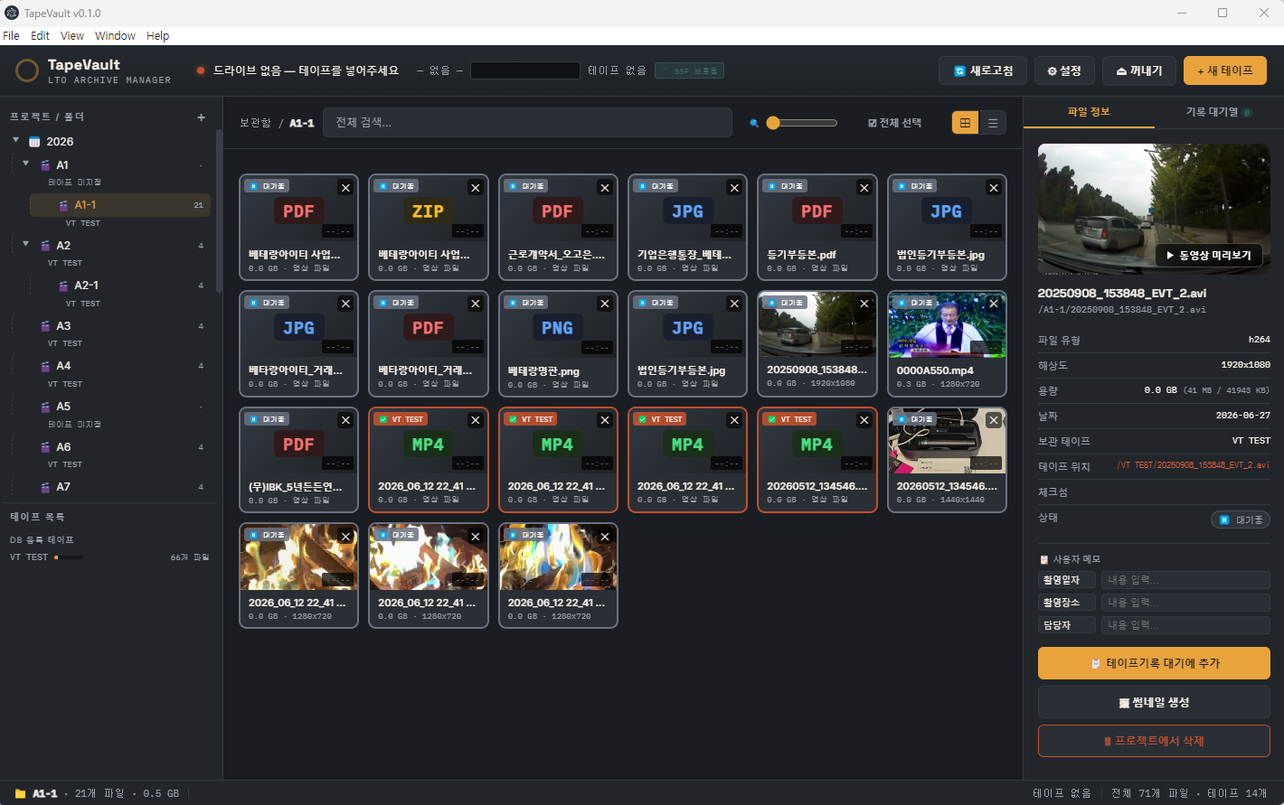
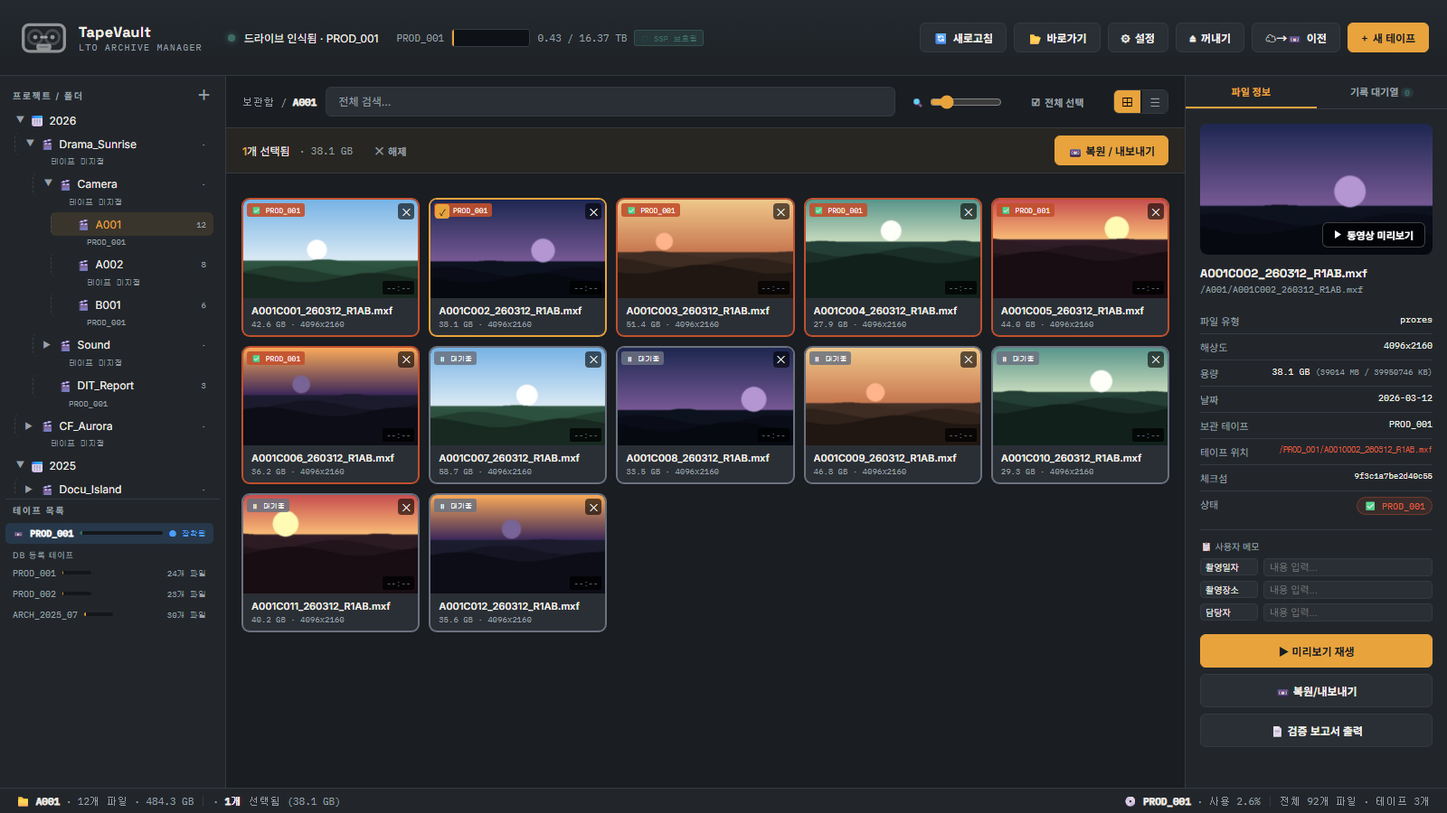
작동 방식: 실제 사용 순서 6단계로 다시 쓰고 그림을 예시 데이터 화면(1.2.9)으로 교체
- 테이프 준비 → 등록 → 기록·검증 → 찾기 → 복원 → 보고서·납품 (ko/en/ja)
- 대표 화면도 교체, 예전 화면 5장(실제 서류 이름·인물 포함) 삭제
- 지금 앱과 맞지 않던 설명(테이프에서 바로 재생, LTO 세대 선택, VT TEST 배지) 제거

diff --git a/index.html b/index.html
@@ -371,11 +371,11 @@ footer{padding:40px 48px;border-top:0.5px solid #313a54;background:#1d2027}
         <span style="width:10px;height:10px;border-radius:50%;background:#f87171;display:inline-block"></span>
         <span style="width:10px;height:10px;border-radius:50%;background:#f5a623;display:inline-block"></span>
         <span style="width:10px;height:10px;border-radius:50%;background:#4ade80;display:inline-block"></span>
-        <span style="font-size:12px;color:#d3d9e8;font-family:monospace;margin-left:8px">TapeVault v1.2.6 — LTO Archive Manager</span>
+        <span style="font-size:12px;color:#d3d9e8;font-family:monospace;margin-left:8px">TapeVault v1.2.9 — LTO Archive Manager</span>
       </div>
       <img src="img/screen-app.png" alt="TapeVault application screenshot" style="width:100%;display:block">
     </div>
-    <div style="font-size:12px;color:#c2cadc;text-align:center;margin-top:10px;font-family:monospace">▲ Actual TapeVault — no mockup</div>
+    <div style="font-size:12px;color:#c2cadc;text-align:center;margin-top:10px;font-family:monospace" data-i18n="hw_hero">▲ The real TapeVault interface (sample data)</div>
   </div>
 
   <div style="max-width:720px;margin:0 auto 20px" id="yt-wrap">
@@ -422,100 +422,119 @@ footer{padding:40px 48px;border-top:0.5px solid #313a54;background:#1d2027}
 
 <section class="gui-sec" id="gui">
   <div class="gui-head">
-    <div class="sec-label" data-i18n="gui_label">Real Software. Real UI.</div>
-    <div class="sec-title" data-i18n="gui_title">See exactly what you get</div>
-    <p class="sec-sub" style="margin:0 auto" data-i18n="gui_sub">These are actual screenshots from TapeVault — no mockups, no illustrations.</p>
+    <div class="sec-label" data-i18n="hw_label">How it works</div>
+    <div class="sec-title" data-i18n="hw_title">From shoot to shelf — and back</div>
+    <p class="sec-sub" style="margin:0 auto" data-i18n="hw_sub">Six steps cover the whole archive workflow. The screens below are the real TapeVault 1.2.9 interface, shown with sample project data.</p>
   </div>
   <div class="gui-step" style="margin-bottom:80px">
     <div class="gui-info">
       <div class="gui-step-num">STEP 01</div>
-      <div class="gui-step-title" data-i18n="s1_title">All your files,<br>visible at a glance</div>
-      <div class="gui-step-desc" data-i18n="s1_desc">Open any project folder and see every file as a thumbnail — videos, PDFs, images, ZIP files — all organized exactly as you archived them. Switch between grid view and list view instantly.</div>
+      <div class="gui-step-title" data-i18n="hw1_t">Prepare a tape<br>in a few clicks</div>
+      <div class="gui-step-desc" data-i18n="hw1_d">Insert a new tape and TapeVault offers to format it as LTFS. Give it a volume name and it is registered in your catalog. From then on the tape is recognized automatically whenever you insert it.</div>
       <ul class="gui-checklist">
-        <li data-i18n="s1_c1">Thumbnail grid view for visual browsing</li>
-        <li data-i18n="s1_c2">List view with filename, size, date, and status</li>
-        <li data-i18n="s1_c3">Color-coded tape status badges (archived / queued)</li>
-        <li data-i18n="s1_c4">Filter by file type, date, or tape</li>
+        <li data-i18n="hw1_c1">LTFS format — readable on Windows, macOS and Linux</li>
+        <li data-i18n="hw1_c2">LTO-5 to LTO-9 drives detected automatically</li>
+        <li data-i18n="hw1_c3">Tape name, capacity and free space shown in the top bar</li>
+        <li data-i18n="hw1_c4">Two drives? Each drive gets its own status row</li>
       </ul>
-      <div class="gui-tip" data-i18n="s1_tip">💡 Green badge = already on tape. Blue = waiting in queue. You always know the status of every file.</div>
+      <div class="gui-tip" data-i18n="hw1_tip">💡 The catalog remembers every tape, so you can browse its contents even when the tape is on the shelf.</div>
     </div>
     <div>
-      <div class="gui-screen"><img src="img/screen-grid.png" alt="TapeVault grid view"></div>
-      <div class="gui-screen-cap" data-i18n="s1_cap">▲ Grid view — actual TapeVault screenshot</div>
+      <div class="gui-screen"><a href="img/how-1-tape.png" target="_blank" rel="noopener"><img src="img/how-1-tape.png" alt="Prepare a tape in a few clicks" loading="lazy"></a></div>
+      <div class="gui-screen-cap" data-i18n="hw1_cap">▲ New tape registration</div>
     </div>
   </div>
   <div class="gui-step gui-step-rev" style="margin-bottom:80px">
     <div class="gui-info">
       <div class="gui-step-num">STEP 02</div>
-      <div class="gui-step-title" data-i18n="s2_title">Click any file.<br>See everything about it.</div>
-      <div class="gui-step-desc" data-i18n="s2_desc">Select any file and the right panel instantly shows the video thumbnail preview, file type, resolution, size, tape location, checksum, and your custom metadata notes. No waiting. No recalling.</div>
+      <div class="gui-step-title" data-i18n="hw2_t">Drag folders in.<br>Your structure is kept.</div>
+      <div class="gui-step-desc" data-i18n="hw2_d">Drop shoot folders from Explorer or Finder onto the tree. The whole subfolder structure is recreated, and that same structure is what gets written to tape. Thumbnails for video and images are generated automatically.</div>
       <ul class="gui-checklist">
-        <li data-i18n="s2_c1">Auto-generated video thumbnail preview</li>
-        <li data-i18n="s2_c2">Full file metadata: codec, resolution, date, size</li>
-        <li data-i18n="s2_c3">Exact tape path and tape name shown</li>
-        <li data-i18n="s2_c4">Custom notes: cameraman, location, owner</li>
+        <li data-i18n="hw2_c1">Drag and drop folders or files — subfolders included</li>
+        <li data-i18n="hw2_c2">Unlimited folder depth; rename, move or add any time</li>
+        <li data-i18n="hw2_c3">Hidden and zero-byte files are skipped automatically</li>
+        <li data-i18n="hw2_c4">Right-click menu for every folder action</li>
       </ul>
-      <div class="gui-tip" data-i18n="s2_tip">💡 Know exactly what's on the tape before you eject it and insert a new one. Zero guesswork.</div>
+      <div class="gui-tip" data-i18n="hw2_tip">💡 Organize by year, project and camera roll once — everyone on the team finds files the same way.</div>
     </div>
     <div>
-      <div class="gui-screen"><img src="img/screen-thumb.png" alt="TapeVault file detail panel"></div>
-      <div class="gui-screen-cap" data-i18n="s2_cap">▲ File detail panel — actual TapeVault screenshot</div>
+      <div class="gui-screen"><a href="img/how-2-register.png" target="_blank" rel="noopener"><img src="img/how-2-register.png" alt="Drag folders in. Your structure is kept." loading="lazy"></a></div>
+      <div class="gui-screen-cap" data-i18n="hw2_cap">▲ Folder tree and right-click menu</div>
     </div>
   </div>
   <div class="gui-step" style="margin-bottom:80px">
     <div class="gui-info">
       <div class="gui-step-num">STEP 03</div>
-      <div class="gui-step-title" data-i18n="s3_title">List view for<br>power users</div>
-      <div class="gui-step-desc" data-i18n="s3_desc">Switch to list view to see all files in a sortable table. Sort by name, size, date, or archive status. Instantly identify which files are on tape and which are still queued.</div>
+      <div class="gui-step-title" data-i18n="hw3_t">Write to tape.<br>Every file verified.</div>
+      <div class="gui-step-desc" data-i18n="hw3_d">Select files or whole folders, add them to the write queue and press start. Each file is written, read back from the tape and compared by checksum — only verified files are marked done.</div>
       <ul class="gui-checklist">
-        <li data-i18n="s3_c1">Sort by any column — name, size, date, status</li>
-        <li data-i18n="s3_c2">VT TEST badge = confirmed on tape</li>
-        <li data-i18n="s3_c3">One-click select multiple files</li>
-        <li data-i18n="s3_c4">Batch add to tape write queue</li>
+        <li data-i18n="hw3_c1">xxHash64 + MD5 calculated while copying</li>
+        <li data-i18n="hw3_c2">Read-back verification of every file on tape</li>
+        <li data-i18n="hw3_c3">Progress with speed and time remaining</li>
+        <li data-i18n="hw3_c4">Optional second copy to another tape, or two drives at once</li>
       </ul>
-      <div class="gui-tip" data-i18n="s3_tip">💡 Select 50 files, add to queue, and start writing — in under 30 seconds.</div>
+      <div class="gui-tip" data-i18n="hw3_tip">💡 If the app is closed or the connection drops mid-write, TapeVault resumes with the remaining files next time.</div>
     </div>
     <div>
-      <div class="gui-screen"><img src="img/screen-list.png" alt="TapeVault list view"></div>
-      <div class="gui-screen-cap" data-i18n="s3_cap">▲ List view — actual TapeVault screenshot</div>
+      <div class="gui-screen"><a href="img/how-3-write.png" target="_blank" rel="noopener"><img src="img/how-3-write.png" alt="Write to tape. Every file verified." loading="lazy"></a></div>
+      <div class="gui-screen-cap" data-i18n="hw3_cap">▲ Write queue</div>
     </div>
   </div>
   <div class="gui-step gui-step-rev" style="margin-bottom:80px">
     <div class="gui-info">
       <div class="gui-step-num">STEP 04</div>
-      <div class="gui-step-title" data-i18n="s4_title">Play video directly<br>from tape. Instantly.</div>
-      <div class="gui-step-desc" data-i18n="s4_desc">Double-click any video file to open the built-in player. Watch the content directly — no need to copy the file first, no external player needed. Works with MP4, MOV, MXF, AVI and more.</div>
+      <div class="gui-step-title" data-i18n="hw4_t">Find any file<br>without loading a tape</div>
+      <div class="gui-step-desc" data-i18n="hw4_d">Browse thumbnails or type in the search box — the catalog covers every tape you have written. Click a file to see its resolution, codec, size, checksum and exactly which tape and path it is on.</div>
       <ul class="gui-checklist">
-        <li data-i18n="s4_c1">Built-in video player — no external software</li>
-        <li data-i18n="s4_c2">Supports MP4, MOV, MXF, AVI, H.264, H.265</li>
-        <li data-i18n="s4_c3">Confirm the right file before recalling to storage</li>
-        <li data-i18n="s4_c4">26-minute files play smoothly from tape</li>
+        <li data-i18n="hw4_c1">Thumbnail cards or a compact list view</li>
+        <li data-i18n="hw4_c2">Search across all tapes at once</li>
+        <li data-i18n="hw4_c3">Tape name and path shown for every file</li>
+        <li data-i18n="hw4_c4">Your own notes: shoot date, location, owner</li>
       </ul>
-      <div class="gui-tip" data-i18n="s4_tip">💡 Stop wasting time recalling wrong files. Preview first, recall only what you need.</div>
+      <div class="gui-tip" data-i18n="hw4_tip">💡 The badge on each card shows the tape name once the file is safely on tape; gray means it is still waiting.</div>
     </div>
     <div>
-      <div class="gui-screen"><img src="img/screen-player.png" alt="TapeVault built-in video player"></div>
-      <div class="gui-screen-cap" data-i18n="s4_cap">▲ Built-in video player — actual TapeVault screenshot</div>
+      <div class="gui-screen"><a href="img/how-4-find.png" target="_blank" rel="noopener"><img src="img/how-4-find.png" alt="Find any file without loading a tape" loading="lazy"></a></div>
+      <div class="gui-screen-cap" data-i18n="hw4_cap">▲ File cards and the info panel</div>
     </div>
   </div>
-  <div class="gui-step">
+  <div class="gui-step" style="margin-bottom:80px">
     <div class="gui-info">
       <div class="gui-step-num">STEP 05</div>
-      <div class="gui-step-title" data-i18n="s5_title">New tape registered<br>in 3 clicks</div>
-      <div class="gui-step-desc" data-i18n="s5_desc">Insert a new tape, click New Tape, enter a volume label and serial number, select your LTO generation, and click Format. TapeVault formats it as LTFS and registers it in your database. Done.</div>
+      <div class="gui-step-title" data-i18n="hw5_t">Restore files or<br>whole folders, verified</div>
+      <div class="gui-step-desc" data-i18n="hw5_d">Pick the files — or right-click a folder to restore it with all its subfolders. TapeVault tells you which tape to insert, copies the files back in their original structure and verifies them against the checksums recorded at write time.</div>
       <ul class="gui-checklist">
-        <li data-i18n="s5_c1">LTFS format — cross-platform compatible</li>
-        <li data-i18n="s5_c2">LTO-4 through LTO-9 supported</li>
-        <li data-i18n="s5_c3">Volume label auto-recognized on future inserts</li>
-        <li data-i18n="s5_c4">Tape serial number linked to physical label</li>
+        <li data-i18n="hw5_c1">Restore single files, selections or entire folders</li>
+        <li data-i18n="hw5_c2">Tells you which tape to insert</li>
+        <li data-i18n="hw5_c3">Checksum verification after restore</li>
+        <li data-i18n="hw5_c4">Files spread over several tapes are restored tape by tape</li>
       </ul>
-      <div class="gui-tip" data-i18n="s5_tip">💡 New tape registered and ready to archive in under 60 seconds.</div>
+      <div class="gui-tip" data-i18n="hw5_tip">💡 Restoring a whole project years later is one right-click — no need to remember which tape holds what.</div>
     </div>
     <div>
-      <div class="gui-screen"><img src="img/screen-new-tape.png" alt="TapeVault new tape registration"></div>
-      <div class="gui-screen-cap" data-i18n="s5_cap">▲ New tape registration — actual TapeVault screenshot</div>
+      <div class="gui-screen"><a href="img/how-5-restore.png" target="_blank" rel="noopener"><img src="img/how-5-restore.png" alt="Restore files or whole folders, verified" loading="lazy"></a></div>
+      <div class="gui-screen-cap" data-i18n="hw5_cap">▲ Restore dialog</div>
     </div>
   </div>
+  <div class="gui-step gui-step-rev">
+    <div class="gui-info">
+      <div class="gui-step-num">STEP 06</div>
+      <div class="gui-step-title" data-i18n="hw6_t">Reports and<br>delivery manifests</div>
+      <div class="gui-step-desc" data-i18n="hw6_d">Export a CSV file list of any folder with size, tape, checksum and media details for clients or audits. For studio deliveries, TapeVault can write MD5 manifests or ASC MHL files to the tape automatically.</div>
+      <ul class="gui-checklist">
+        <li data-i18n="hw6_c1">File list export (CSV, subfolders included)</li>
+        <li data-i18n="hw6_c2">MD5 manifest written to tape for studio delivery</li>
+        <li data-i18n="hw6_c3">ASC MHL v2.0 per roll</li>
+        <li data-i18n="hw6_c4">Catalog and error reports</li>
+      </ul>
+      <div class="gui-tip" data-i18n="hw6_tip">💡 Hand over the tape with a file list and manifest the receiving side can verify on their own.</div>
+    </div>
+    <div>
+      <div class="gui-screen"><a href="img/how-6-report.png" target="_blank" rel="noopener"><img src="img/how-6-report.png" alt="Reports and delivery manifests" loading="lazy"></a></div>
+      <div class="gui-screen-cap" data-i18n="hw6_cap">▲ List view with tape status</div>
+    </div>
+  </div>
+  <p style="text-align:center;margin:56px auto 0;font-size:14px"><a href="manual.html" style="color:#5b9cf6;text-decoration:none" data-i18n="hw_more">Read the full user manual →</a></p>
 </section>
 
 <section class="baf-sec" style="padding:72px 48px;background:#1d2027;border-top:0.5px solid #313a54;border-bottom:0.5px solid #313a54">
@@ -870,6 +889,7 @@ const T = {
     sol1_t:'Search in 30 seconds', sol1_d:'Type the filename, date, or metadata. TapeVault searches all tapes instantly and shows exactly where the file is.',
     sol2_t:'Permanent metadata database', sol2_d:'Every file is indexed with metadata, checksum, and location. Staff changes never affect your archive organization.',
     sol3_t:'Thumbnails without recall', sol3_d:'TapeVault auto-generates thumbnails for every video file. Browse visually and confirm before recalling from tape.',
+    hw_label:'How it works', hw_title:'From shoot to shelf — and back', hw_sub:'Six steps cover the whole archive workflow. The screens below are the real TapeVault 1.2.9 interface, shown with sample project data.', hw_hero:'▲ The real TapeVault interface (sample data)', hw_more:'Read the full user manual →', hw1_t:'Prepare a tape<br>in a few clicks', hw1_d:'Insert a new tape and TapeVault offers to format it as LTFS. Give it a volume name and it is registered in your catalog. From then on the tape is recognized automatically whenever you insert it.', hw1_c1:'LTFS format — readable on Windows, macOS and Linux', hw1_c2:'LTO-5 to LTO-9 drives detected automatically', hw1_c3:'Tape name, capacity and free space shown in the top bar', hw1_c4:'Two drives? Each drive gets its own status row', hw1_tip:'💡 The catalog remembers every tape, so you can browse its contents even when the tape is on the shelf.', hw1_cap:'▲ New tape registration', hw2_t:'Drag folders in.<br>Your structure is kept.', hw2_d:'Drop shoot folders from Explorer or Finder onto the tree. The whole subfolder structure is recreated, and that same structure is what gets written to tape. Thumbnails for video and images are generated automatically.', hw2_c1:'Drag and drop folders or files — subfolders included', hw2_c2:'Unlimited folder depth; rename, move or add any time', hw2_c3:'Hidden and zero-byte files are skipped automatically', hw2_c4:'Right-click menu for every folder action', hw2_tip:'💡 Organize by year, project and camera roll once — everyone on the team finds files the same way.', hw2_cap:'▲ Folder tree and right-click menu', hw3_t:'Write to tape.<br>Every file verified.', hw3_d:'Select files or whole folders, add them to the write queue and press start. Each file is written, read back from the tape and compared by checksum — only verified files are marked done.', hw3_c1:'xxHash64 + MD5 calculated while copying', hw3_c2:'Read-back verification of every file on tape', hw3_c3:'Progress with speed and time remaining', hw3_c4:'Optional second copy to another tape, or two drives at once', hw3_tip:'💡 If the app is closed or the connection drops mid-write, TapeVault resumes with the remaining files next time.', hw3_cap:'▲ Write queue', hw4_t:'Find any file<br>without loading a tape', hw4_d:'Browse thumbnails or type in the search box — the catalog covers every tape you have written. Click a file to see its resolution, codec, size, checksum and exactly which tape and path it is on.', hw4_c1:'Thumbnail cards or a compact list view', hw4_c2:'Search across all tapes at once', hw4_c3:'Tape name and path shown for every file', hw4_c4:'Your own notes: shoot date, location, owner', hw4_tip:'💡 The badge on each card shows the tape name once the file is safely on tape; gray means it is still waiting.', hw4_cap:'▲ File cards and the info panel', hw5_t:'Restore files or<br>whole folders, verified', hw5_d:'Pick the files — or right-click a folder to restore it with all its subfolders. TapeVault tells you which tape to insert, copies the files back in their original structure and verifies them against the checksums recorded at write time.', hw5_c1:'Restore single files, selections or entire folders', hw5_c2:'Tells you which tape to insert', hw5_c3:'Checksum verification after restore', hw5_c4:'Files spread over several tapes are restored tape by tape', hw5_tip:'💡 Restoring a whole project years later is one right-click — no need to remember which tape holds what.', hw5_cap:'▲ Restore dialog', hw6_t:'Reports and<br>delivery manifests', hw6_d:'Export a CSV file list of any folder with size, tape, checksum and media details for clients or audits. For studio deliveries, TapeVault can write MD5 manifests or ASC MHL files to the tape automatically.', hw6_c1:'File list export (CSV, subfolders included)', hw6_c2:'MD5 manifest written to tape for studio delivery', hw6_c3:'ASC MHL v2.0 per roll', hw6_c4:'Catalog and error reports', hw6_tip:'💡 Hand over the tape with a file list and manifest the receiving side can verify on their own.', hw6_cap:'▲ List view with tape status',
     gui_label:'Real Software. Real UI.', gui_title:'See exactly what you get', gui_sub:'These are actual screenshots from TapeVault — no mockups, no illustrations.',
     s1_title:'All your files,<br>visible at a glance', s1_desc:'Open any project folder and see every file as a thumbnail — videos, PDFs, images, ZIP files — all organized exactly as you archived them. Switch between grid view and list view instantly.',
     s1_c1:'Thumbnail grid view for visual browsing', s1_c2:'List view with filename, size, date, and status', s1_c3:'Color-coded tape status badges (archived / queued)', s1_c4:'Filter by file type, date, or tape',
@@ -976,6 +996,7 @@ const T = {
     sol1_t:'30초 안에 검색', sol1_d:'파일명, 날짜, 메타데이터를 입력하면 모든 테이프를 즉시 검색해 정확한 위치를 알려줍니다.',
     sol2_t:'영구 메타데이터 DB', sol2_d:'모든 파일이 메타데이터, 체크섬, 위치 정보와 함께 인덱싱됩니다. 담당자가 바뀌어도 아카이브는 안전합니다.',
     sol3_t:'리콜 없이 썸네일 미리보기', sol3_d:'동영상 파일마다 썸네일이 자동 생성됩니다. 테이프에서 꺼내기 전에 시각적으로 확인할 수 있습니다.',
+    hw_label:'작동 방식', hw_title:'촬영 원본을 테이프로, 그리고 다시 꺼내기까지', hw_sub:'아카이브 작업 전체를 6단계로 보여 드립니다. 아래 화면은 실제 TapeVault 1.2.9 화면이며, 예시 프로젝트 데이터로 표시했습니다.', hw_hero:'▲ 실제 TapeVault 화면 (예시 데이터)', hw_more:'사용자 매뉴얼 전체 보기 →', hw1_t:'테이프 준비는<br>클릭 몇 번으로', hw1_d:'새 테이프를 넣으면 LTFS로 포맷할지 물어봅니다. 볼륨 이름만 정하면 카탈로그에 등록되고, 다음부터는 넣기만 해도 자동으로 인식합니다.', hw1_c1:'LTFS 포맷 — Windows·macOS·Linux 어디서나 읽을 수 있음', hw1_c2:'LTO-5~LTO-9 드라이브 자동 인식', hw1_c3:'상단 바에서 테이프 이름·용량·남은 공간 확인', hw1_c4:'드라이브가 2대면 드라이브마다 상태를 따로 표시', hw1_tip:'💡 카탈로그가 모든 테이프를 기억하므로, 테이프가 선반에 있어도 안의 내용을 찾아볼 수 있습니다.', hw1_cap:'▲ 새 테이프 등록', hw2_t:'폴더를 끌어다 놓으면<br>구조 그대로 등록', hw2_d:'탐색기나 Finder에서 촬영 폴더를 트리에 끌어다 놓으세요. 하위 폴더 구조가 그대로 만들어지고, 그 구조 그대로 테이프에 기록됩니다. 영상과 이미지는 썸네일이 자동으로 만들어집니다.', hw2_c1:'폴더·파일 끌어다 놓기 — 하위 폴더 포함', hw2_c2:'폴더 단계 제한 없음, 언제든 이름 변경·이동·추가', hw2_c3:'숨김 파일과 0바이트 파일은 자동 제외', hw2_c4:'폴더 우클릭 메뉴로 모든 작업', hw2_tip:'💡 연도·프로젝트·카메라 롤 순으로 한 번 정리해 두면, 팀 누구나 같은 방식으로 파일을 찾습니다.', hw2_cap:'▲ 폴더 트리와 우클릭 메뉴', hw3_t:'테이프에 기록하고<br>파일마다 검증', hw3_d:'파일이나 폴더를 골라 기록 대기열에 넣고 시작을 누르세요. 파일마다 테이프에 쓴 뒤 다시 읽어 체크섬을 비교하고, 검증을 통과한 파일만 완료로 표시합니다.', hw3_c1:'복사하면서 xxHash64 + MD5 계산', hw3_c2:'테이프에서 다시 읽어 파일마다 검증', hw3_c3:'속도와 남은 시간이 보이는 진행 표시', hw3_c4:'다른 테이프로 복본 만들기, 드라이브 2대 동시 기록', hw3_tip:'💡 기록 중에 앱이 닫히거나 연결이 끊겨도, 다음 실행 때 남은 파일부터 이어서 진행합니다.', hw3_cap:'▲ 기록 대기열', hw4_t:'테이프를 넣지 않고도<br>파일 찾기', hw4_d:'썸네일을 훑어보거나 검색창에 입력하세요. 카탈로그에는 지금까지 기록한 모든 테이프가 들어 있습니다. 파일을 누르면 해상도·코덱·크기·체크섬과 함께 어느 테이프의 어느 경로에 있는지 바로 보입니다.', hw4_c1:'썸네일 카드 보기와 목록 보기', hw4_c2:'모든 테이프를 한 번에 검색', hw4_c3:'파일마다 테이프 이름과 경로 표시', hw4_c4:'촬영일자·장소·담당자 메모', hw4_tip:'💡 테이프에 안전하게 기록된 파일은 카드에 테이프 이름 배지가 붙고, 회색은 아직 대기 중인 파일입니다.', hw4_cap:'▲ 파일 카드와 정보 패널', hw5_t:'파일도 폴더도<br>검증하며 복원', hw5_d:'파일을 고르거나, 폴더를 우클릭해 하위 폴더까지 통째로 복원하세요. 어느 테이프를 넣어야 하는지 알려 주고, 원래 폴더 구조대로 꺼낸 뒤 기록할 때의 체크섬과 비교해 검증합니다.', hw5_c1:'파일 하나, 여러 개, 폴더 전체 복원', hw5_c2:'넣어야 할 테이프를 안내', hw5_c3:'복원 후 체크섬 검증', hw5_c4:'여러 테이프에 나뉜 파일은 테이프별로 차례로 복원', hw5_tip:'💡 몇 년 뒤 프로젝트 전체를 꺼낼 때도 우클릭 한 번이면 됩니다. 어느 테이프에 무엇이 있는지 기억할 필요가 없습니다.', hw5_cap:'▲ 복원 창', hw6_t:'보고서와<br>납품용 매니페스트', hw6_d:'폴더의 파일 목록을 크기·테이프·체크섬·영상 정보와 함께 CSV로 내보내 고객이나 감사에 제출할 수 있습니다. 스튜디오 납품용으로는 MD5 매니페스트나 ASC MHL을 테이프에 자동으로 만들어 줍니다.', hw6_c1:'파일 목록 내보내기 (CSV, 하위 폴더 포함)', hw6_c2:'스튜디오 납품용 MD5 매니페스트를 테이프에 저장', hw6_c3:'롤별 ASC MHL v2.0', hw6_c4:'카탈로그·오류 보고서', hw6_tip:'💡 받는 쪽이 직접 검증할 수 있는 파일 목록과 매니페스트를 테이프와 함께 넘기세요.', hw6_cap:'▲ 테이프 상태가 보이는 목록 보기',
     gui_label:'실제 소프트웨어. 실제 UI.', gui_title:'실제로 이렇게 생겼습니다', gui_sub:'전부 TapeVault의 실제 스크린샷입니다 — 목업이나 일러스트가 아닙니다.',
     s1_title:'모든 파일을<br>한눈에 확인', s1_desc:'프로젝트 폴더를 열면 동영상, PDF, 이미지, ZIP 등 모든 파일을 썸네일로 확인할 수 있습니다. 그리드 뷰와 리스트 뷰를 즉시 전환할 수 있습니다.',
     s1_c1:'시각적 탐색을 위한 썸네일 그리드 뷰', s1_c2:'파일명, 크기, 날짜, 상태 포함 리스트 뷰', s1_c3:'색상 코딩된 테이프 상태 배지 (보관됨 / 대기 중)', s1_c4:'파일 유형, 날짜, 테이프로 필터링',
@@ -1082,6 +1103,7 @@ const T = {
     sol1_t:'30秒で検索', sol1_d:'ファイル名・日付・メタデータを入力するだけで全テープを瞬時に検索し、場所を特定します。',
     sol2_t:'永続的なメタデータDB', sol2_d:'全ファイルがメタデータ・チェックサム・場所とともに登録されます。担当者交代の影響を受けません。',
     sol3_t:'リコール不要でサムネイル確認', sol3_d:'動画ファイルのサムネイルが自動生成されます。リコール前に内容を視覚的に確認できます。',
+    hw_label:'使い方', hw_title:'撮影素材をテープへ、そして再び取り出すまで', hw_sub:'アーカイブ作業の全体を6つのステップでご紹介します。以下は実際のTapeVault 1.2.9の画面で、サンプルのプロジェクトデータを表示しています。', hw_hero:'▲ 実際のTapeVaultの画面（サンプルデータ）', hw_more:'ユーザーマニュアルを見る →', hw1_t:'テープの準備は<br>数クリックで', hw1_d:'新しいテープを入れると、LTFSでフォーマットするか確認されます。ボリューム名を決めるだけでカタログに登録され、次回からは入れるだけで自動認識されます。', hw1_c1:'LTFSフォーマット — Windows・macOS・Linuxで読み取り可能', hw1_c2:'LTO-5〜LTO-9ドライブを自動認識', hw1_c3:'上部バーでテープ名・容量・空き容量を確認', hw1_c4:'ドライブが2台なら、ドライブごとに状態を表示', hw1_tip:'💡 カタログがすべてのテープを記憶するので、テープが棚にあっても中身を確認できます。', hw1_cap:'▲ 新規テープの登録', hw2_t:'フォルダをドラッグするだけ。<br>構成はそのまま', hw2_d:'エクスプローラーやFinderから撮影フォルダをツリーにドラッグします。サブフォルダ構成がそのまま作成され、その構成のままテープに書き込まれます。動画と画像のサムネイルは自動で作成されます。', hw2_c1:'フォルダ・ファイルをドラッグ＆ドロップ — サブフォルダを含む', hw2_c2:'階層の制限なし。名前変更・移動・追加はいつでも可能', hw2_c3:'隠しファイルと0バイトのファイルは自動で除外', hw2_c4:'右クリックメニューからすべての操作', hw2_tip:'💡 年・プロジェクト・カメラロールの順に一度整理すれば、チームの誰もが同じ方法でファイルを見つけられます。', hw2_cap:'▲ フォルダツリーと右クリックメニュー', hw3_t:'テープに書き込み、<br>全ファイルを検証', hw3_d:'ファイルやフォルダを選んで書き込みキューに追加し、開始を押します。ファイルごとにテープへ書き込み、読み戻してチェックサムを比較し、検証に合格したファイルだけを完了と表示します。', hw3_c1:'コピー中にxxHash64 + MD5を計算', hw3_c2:'テープから読み戻して全ファイルを検証', hw3_c3:'速度と残り時間がわかる進捗表示', hw3_c4:'別のテープへの複製、2台のドライブでの同時書き込み', hw3_tip:'💡 書き込み中にアプリが閉じたり接続が切れたりしても、次回起動時に残りのファイルから再開します。', hw3_cap:'▲ 書き込みキュー', hw4_t:'テープを入れなくても<br>ファイルを検索', hw4_d:'サムネイルを眺めるか、検索欄に入力します。カタログにはこれまで書き込んだすべてのテープが含まれています。ファイルをクリックすると、解像度・コーデック・サイズ・チェックサムと、どのテープのどのパスにあるかがすぐにわかります。', hw4_c1:'サムネイルカード表示と一覧表示', hw4_c2:'すべてのテープを一度に検索', hw4_c3:'ファイルごとにテープ名とパスを表示', hw4_c4:'撮影日・場所・担当者のメモ', hw4_tip:'💡 テープに安全に書き込まれたファイルにはテープ名のバッジが付き、グレーはまだ待機中のファイルです。', hw4_cap:'▲ ファイルカードと情報パネル', hw5_t:'ファイルもフォルダも<br>検証しながら復元', hw5_d:'ファイルを選ぶか、フォルダを右クリックしてサブフォルダごと復元します。どのテープを入れるかを案内し、元のフォルダ構成のまま取り出して、書き込み時のチェックサムと照合して検証します。', hw5_c1:'単一ファイル、複数選択、フォルダ全体の復元', hw5_c2:'入れるべきテープを案内', hw5_c3:'復元後のチェックサム検証', hw5_c4:'複数のテープに分かれたファイルはテープごとに順に復元', hw5_tip:'💡 数年後にプロジェクト全体を取り出すときも右クリック1回。どのテープに何があるかを覚えておく必要はありません。', hw5_cap:'▲ 復元ダイアログ', hw6_t:'レポートと<br>納品用マニフェスト', hw6_d:'フォルダのファイル一覧を、サイズ・テープ・チェックサム・メディア情報とともにCSVで出力し、クライアントや監査に提出できます。スタジオ納品向けには、MD5マニフェストやASC MHLをテープ上に自動で作成します。', hw6_c1:'ファイル一覧のエクスポート（CSV、サブフォルダを含む）', hw6_c2:'スタジオ納品用のMD5マニフェストをテープに保存', hw6_c3:'ロールごとのASC MHL v2.0', hw6_c4:'カタログ・エラーレポート', hw6_tip:'💡 受け取り側が自分で検証できるファイル一覧とマニフェストを、テープと一緒に渡せます。', hw6_cap:'▲ テープ状態がわかる一覧表示',
     gui_label:'リアルなソフト。リアルなUI。', gui_title:'実際の画面をご確認ください', gui_sub:'すべてTapeVaultの実際のスクリーンショットです。モックアップではありません。',
     s1_title:'すべてのファイルを<br>一目で把握', s1_desc:'プロジェクトフォルダを開くと、動画・PDF・画像・ZIPなど全ファイルがサムネイル表示されます。グリッドとリスト表示を即時切替できます。',
     s1_c1:'視覚的ブラウジング用サムネイルグリッド', s1_c2:'ファイル名・サイズ・日付・状態つきリスト表示', s1_c3:'カラーコードのテープステータスバッジ', s1_c4:'ファイル種別・日付・テープでフィルター',
